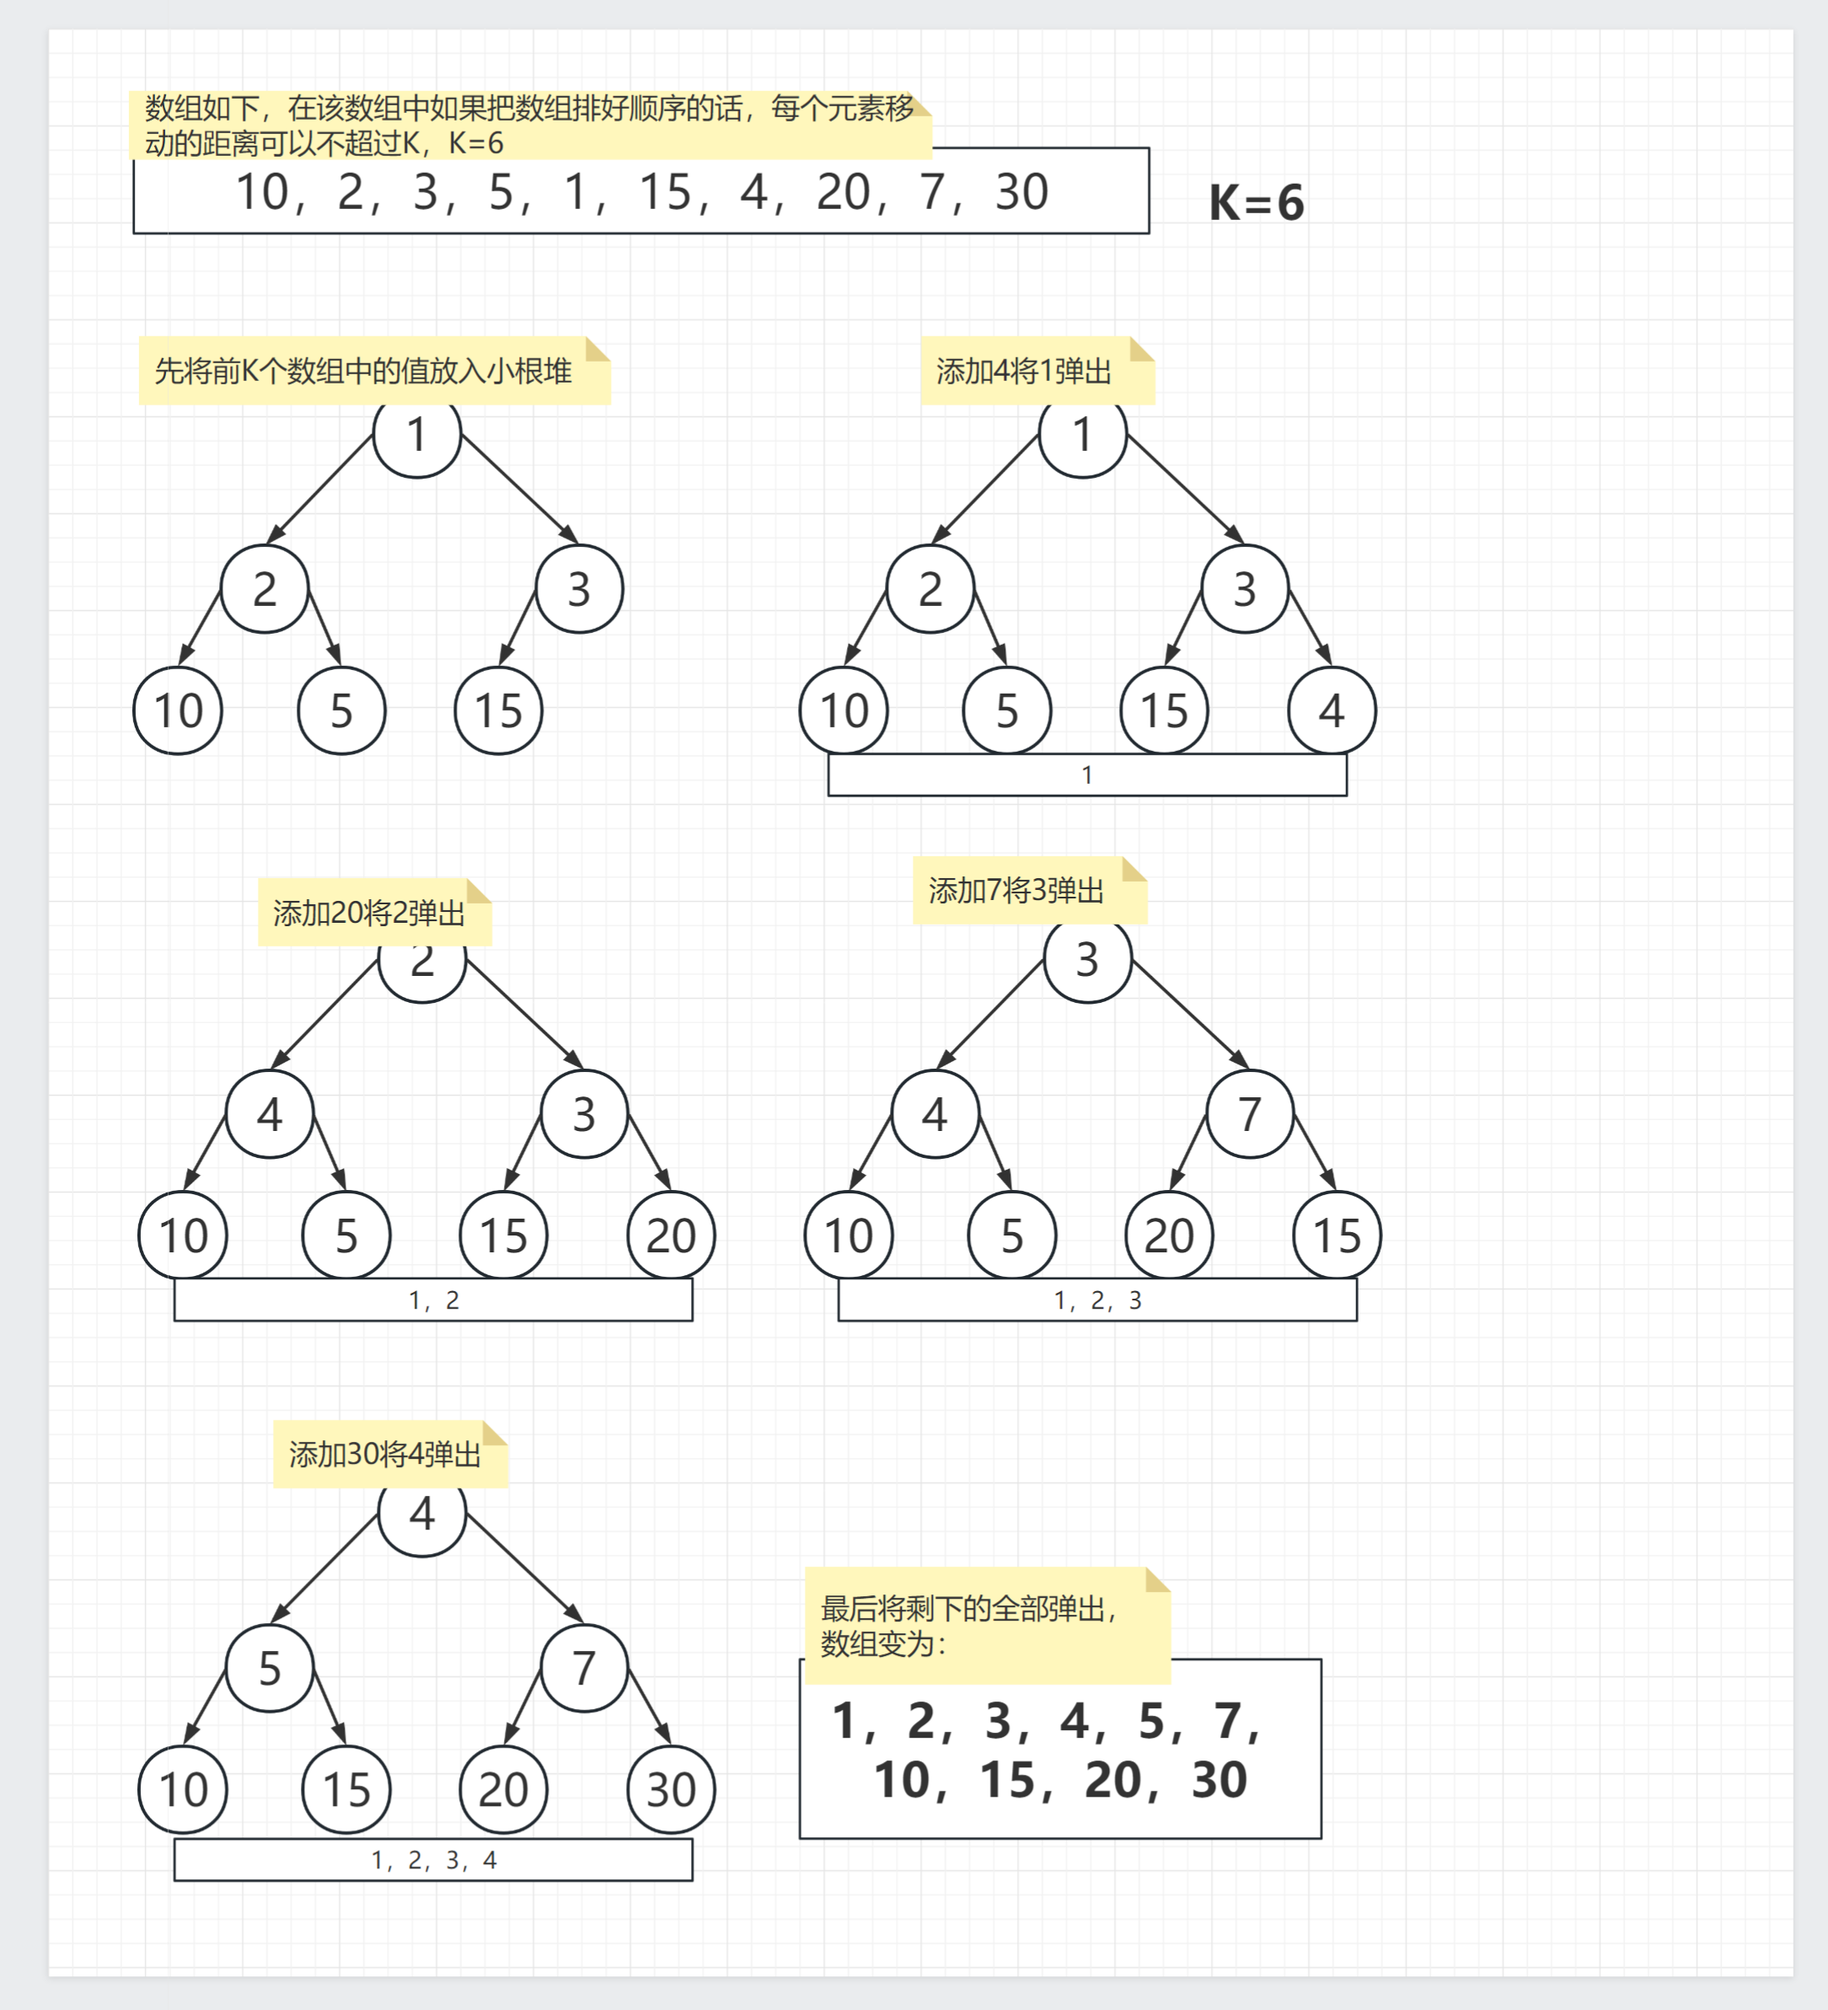
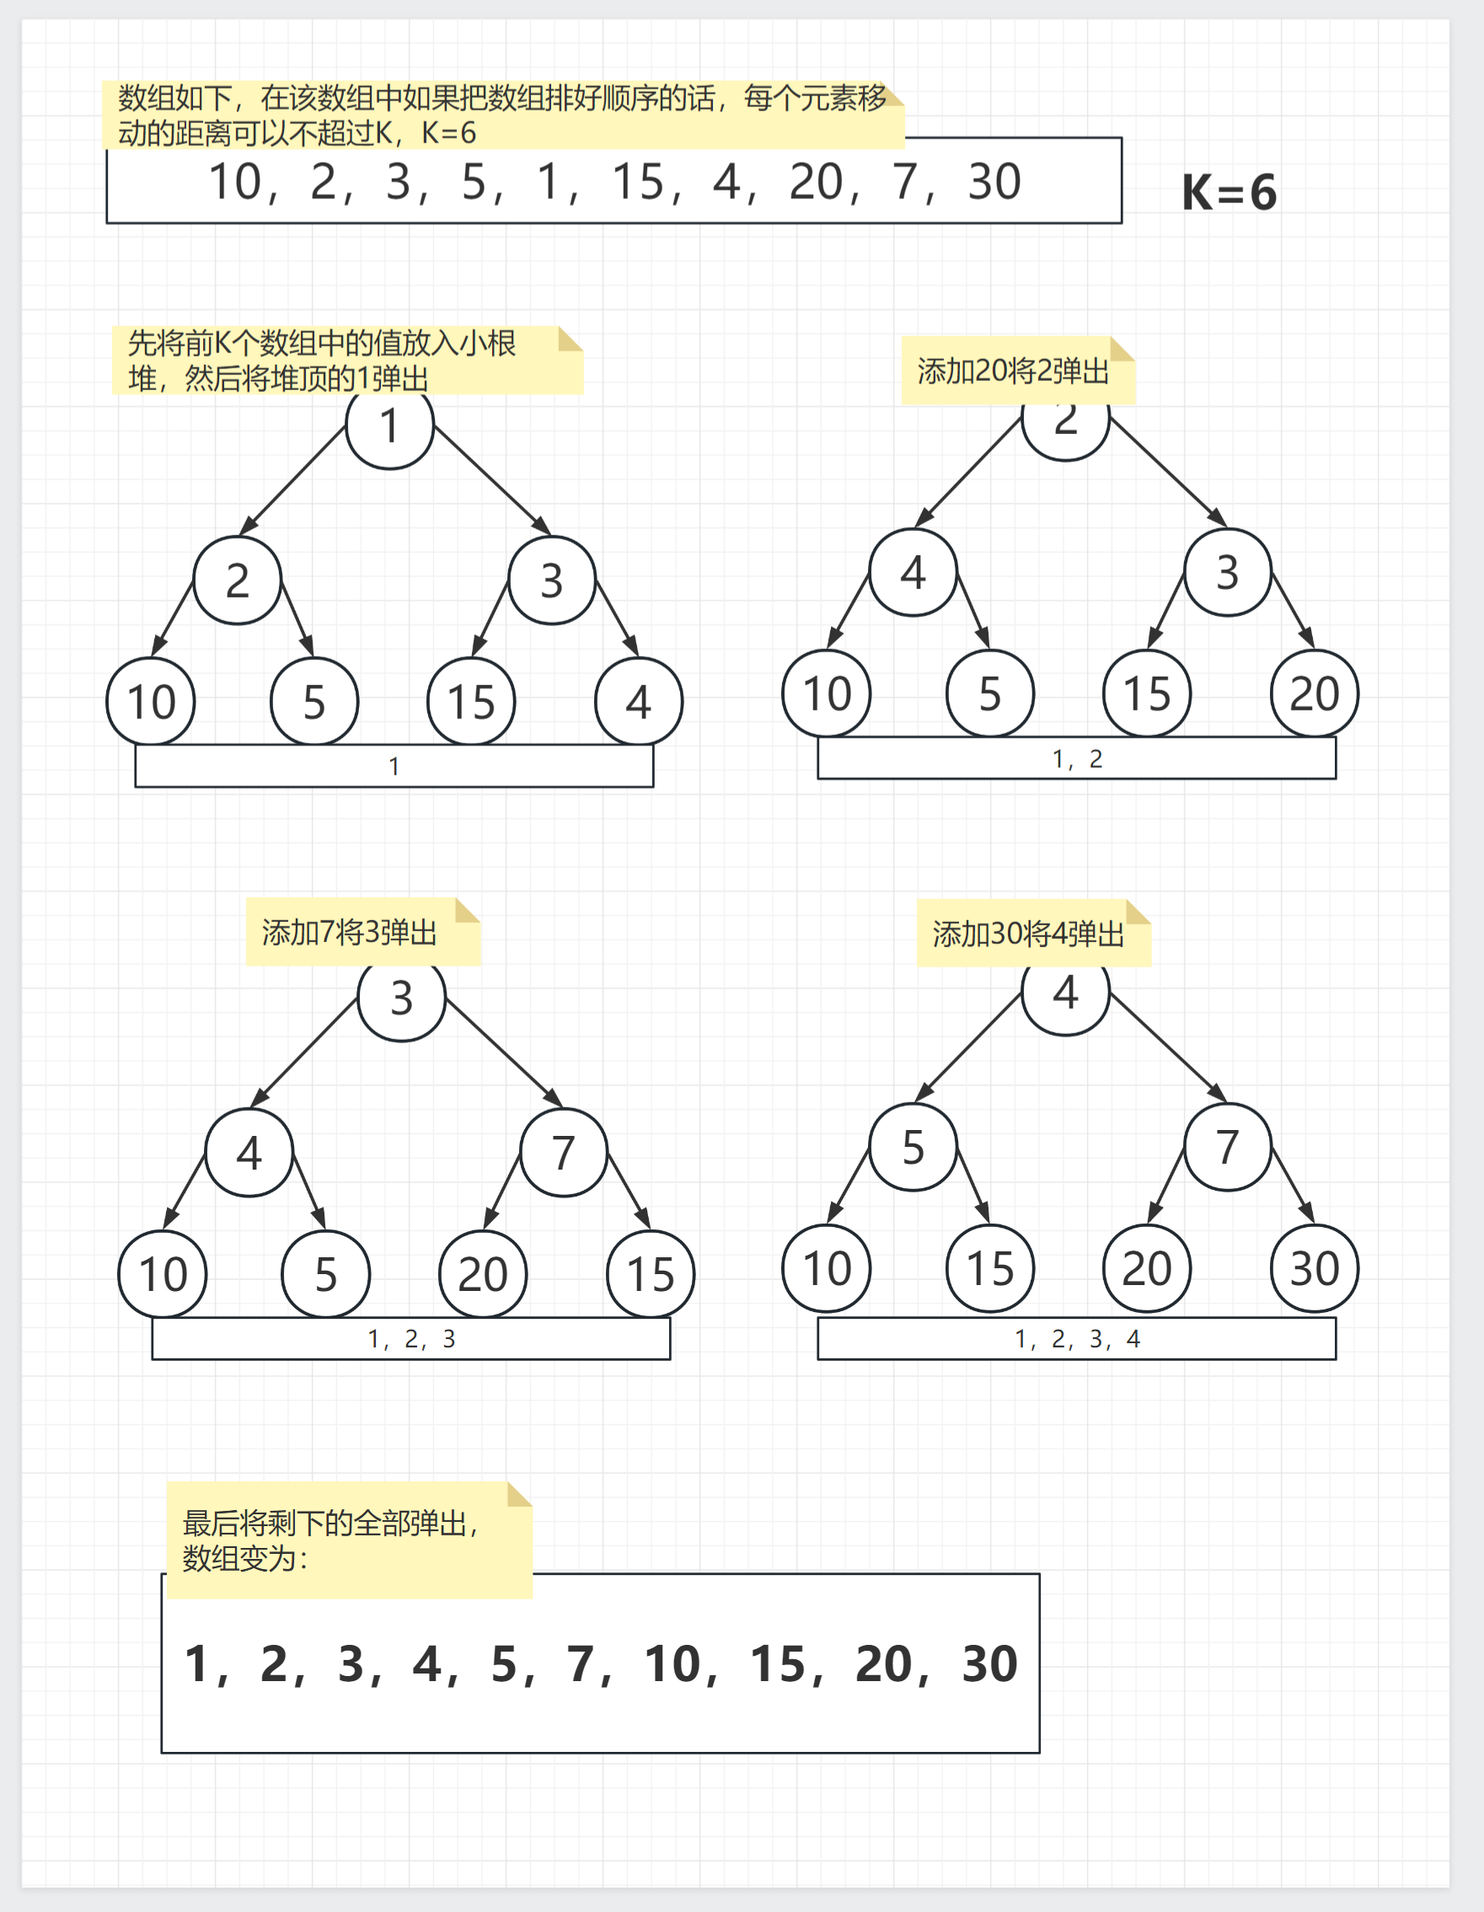
update

diff --git a/_wiki/algorithm-count-sort.md b/_wiki/algorithm-count-sort.md
@@ -1,0 +1,93 @@
+---
+layout: wiki
+title: 计数排序
+cate1: algorithm
+cate2: 
+description: 计数排序是一种非基于比较的排序算法，于1954年由Harold H. Seward提出。它在处理一定范围内的整数排序时，具有复杂度为Ο(n+k)的优势（其中k是整数的范围），快于任何比较排序算法。但是，这是一种牺牲空间换取时间的做法，而且在O(k)>O(n*log(n))的时候其效率反而不如基于比较的排序。
+keywords: algorithm
+sorting: 13
+---
+
+
+
+**计数排序是一种非基于比较的排序算法，于1954年由Harold H. Seward提出。它在处理一定范围内的整数排序时，具有复杂度为Ο(n+k)的优势（其中k是整数的范围），快于任何比较排序算法。但是，这是一种牺牲空间换取时间的做法，而且在O(k)>O(n*log(n))的时候其效率反而不如基于比较的排序。**
+
+------
+
+
+
+#### 基本思想
+
+对每一个输入元素x，确定出小于x的元素个数。这样，我们就可以直接把x放到它在输出数组中的位置上了。
+
+这个算法需要一个额外的数组来记录计数，所以如果范围非常大的话，可能需要较大的空间。
+
+
+
+#### 算法思想
+
+<img src="/images/wiki/algorithm/algorithm-count-sort_step1.jpg" />
+
+其实会发现一个主要问题，那么就是tmp数组到底应该开辟多大的空间，怎么计算？
+
+假设我们有组数据：`100, 101, 102, 101, 109, 105, 105`
+
+我们应该开辟多大的空间，因为最大值是109，从0开始需要开辟110个空间吗？那太浪费了。
+
+<img src="/images/wiki/algorithm/algorithm-count-sort_step2.jpg" />
+
+所以我们只需要 `最大值 — 最小值 + 1` 的空间，`max=109, min=100, max-min+1=10` ，即可
+
+<img src="/images/wiki/algorithm/algorithm-count-sort_step3.jpg" />
+
+
+
+#### 流程图
+
+<img src="/images/wiki/algorithm/algorithm-count-sort_step4.png" />
+
+
+
+#### java
+
+
+```java
+public static void countSort(int[] a) {
+    // 初始化数组中的最大值和最小值
+    int max = a[0];
+    int min = a[0];
+    // 遍历数组，找到最大值和最小值
+    for (int i = 0; i < a.length; i++) {
+        if (a[i] > max) {
+            max = a[i];
+        }
+        if (a[i] < min) {
+            min = a[i];
+        }
+    }
+    // 计算整数范围，为count数组的大小
+    int range = max + 1 - min;
+    // 初始化计数数组
+    int[] count = new int[range];
+    // 遍历原数组，计算每个数出现的次数并保存到count数组中
+    for (int i = 0; i < a.length; i++) {
+        count[a[i] - min]++;
+    }
+    // 对count数组进行累加
+    for (int i = 1; i < range; i++) {
+        count[i] += count[i - 1];
+    }
+    // 初始化一个与原数组等规模的辅助数组
+    int[] tmp = new int[a.length];
+    // 从原数组最后一个元素开始，将每个元素放到临时数组中对应的位置，并更新count数组
+    for (int i = a.length - 1; i >= 0; i--) {
+        tmp[count[a[i] - min] - 1] = a[i];
+        count[a[i] - min]--;
+    }
+    // 将临时数组的元素复制回原数组，完成排序
+    for (int i = 0; i < a.length; i++) {
+        a[i] = tmp[i];
+    }
+}
+```
+

diff --git a/_wiki/algorithm-sorted-arr-distance-less-k.md b/_wiki/algorithm-sorted-arr-distance-less-k.md
@@ -58,7 +58,7 @@ public static void sortedArrDistanceLessK(int[] arr, int K) {
     PriorityQueue<Integer> heap = new PriorityQueue<>();
     // 将数组的前K个元素添加到堆中
     int index = 0;
-    for (; index < Math.min(arr.length, K); index++) {
+    for (; index <= Math.min(arr.length, K); index++) {
         heap.add(arr[index]);
     }
     // 开始处理数组的后续元素
@@ -74,5 +74,26 @@ public static void sortedArrDistanceLessK(int[] arr, int K) {
         arr[i++] = heap.poll();
     }
 }
+```
+
+
+
+#### 补充
+
+PriorityQueue默认小根堆，要将其转为大根堆只须使用比较器：
+
+```java
+public static class AComp implements Comparator<Integer> {
+    // 如果返回负数，认为第一个参数应该排在前面
+    // 如果返回正数，认为第二个参数应该排在前面
+    // 如果返回0，认为谁放前面都行
+    @Override
+    public int compare(Integer arr0, Integer arr1) {
+        return arr1 - arr0;
+    }
+}
+
+// 变为大根堆
+PriorityQueue<Integer> heap = new PriorityQueue<>(new AComp());
 ```
 
